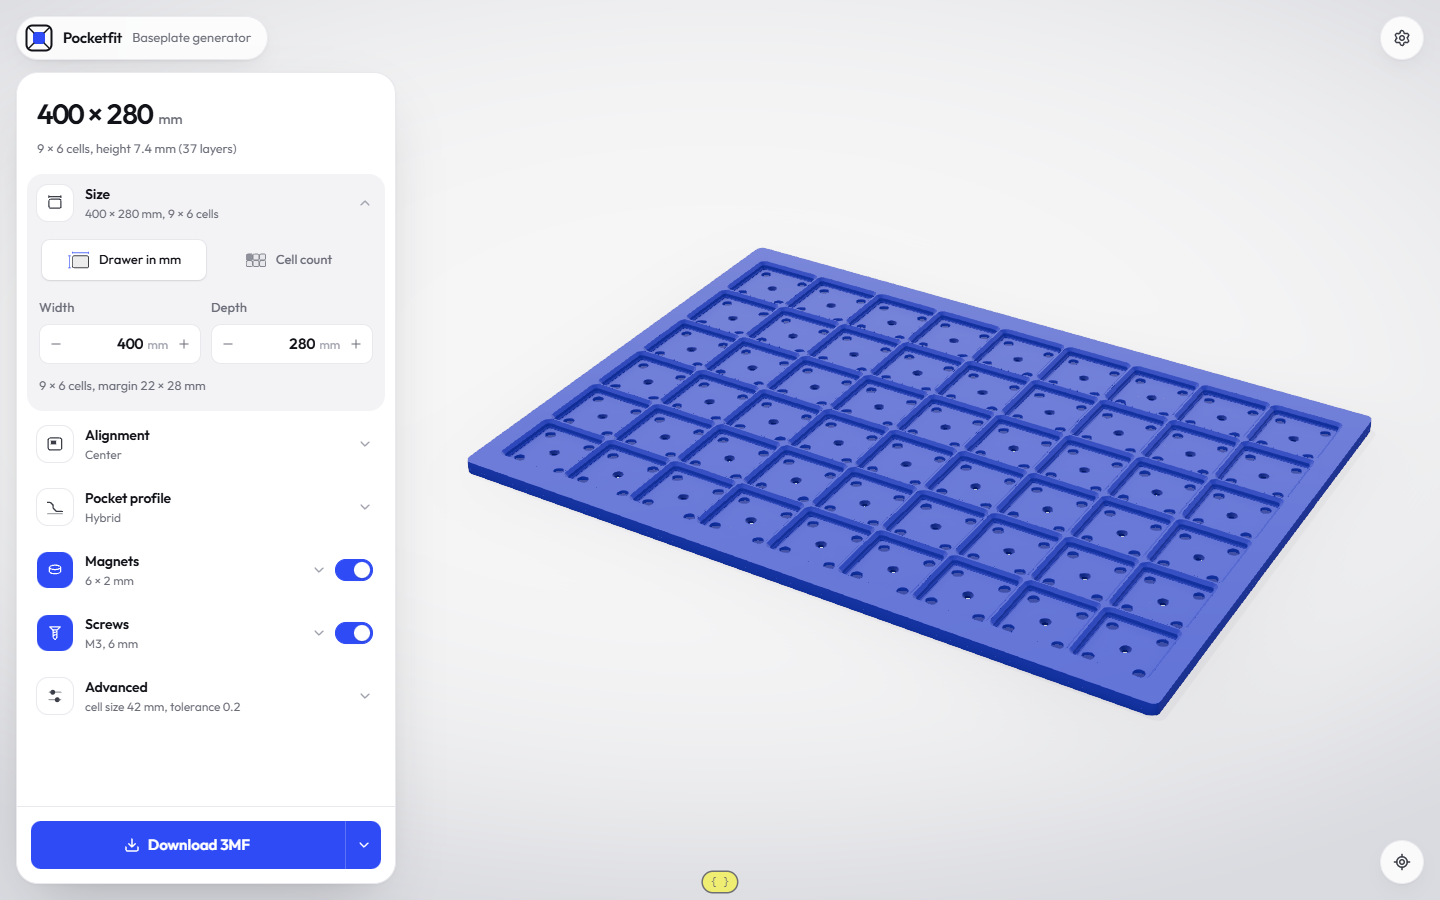
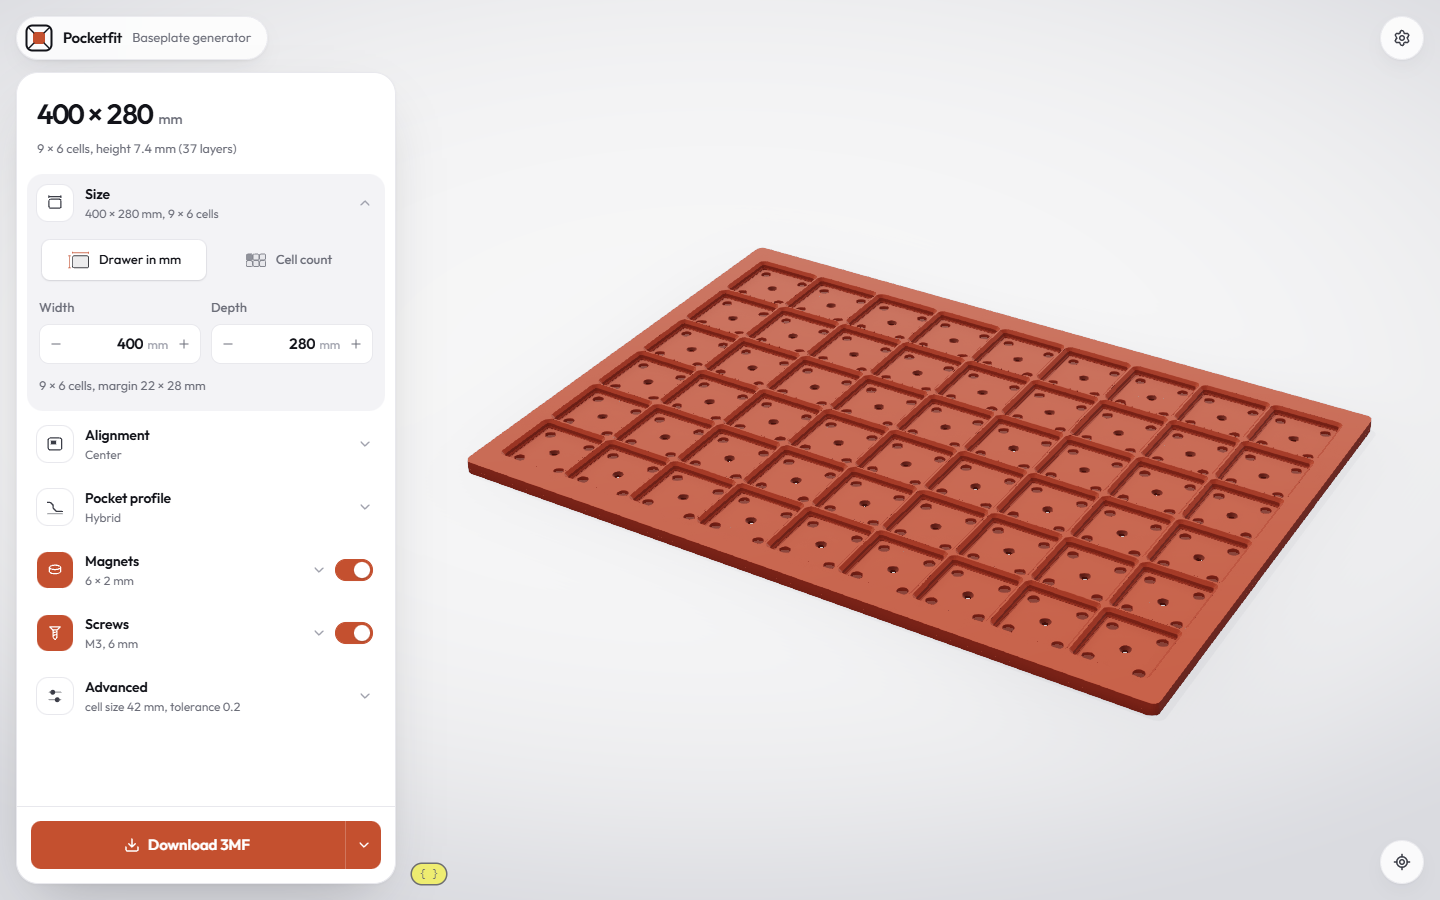
prototype(ui v3): terracotta accent, configurable from a single source
- BRAND_ACCENT in lib/accents.ts drives every --accent* token and the preview
  plastic color; the tokens are no longer duplicated in globals.css.
- ?accent=<key> still overrides it for testing; the comparison pill is removed.
- v3 screenshots retaken in terracotta; README and handoff updated.

diff --git a/prototypes/ui-directions/lib/accents.ts b/prototypes/ui-directions/lib/accents.ts
@@ -1,6 +1,8 @@
-// PROTOTYPE JETABLE — candidats pour l'accent unique de la direction Studio (l'outremer a été rejeté).
-// Chaque accent fixe les jetons CSS de l'interface et la couleur du plastique de l'aperçu 3D
+// PROTOTYPE JETABLE — accent unique de la direction Studio : SEULE source de sa couleur.
+// Pour changer l'accent du site : modifier BRAND_ACCENT (ou ajouter une entrée à ACCENTS).
+// Chaque accent fixe les jetons CSS de l'interface (--accent*) et la couleur du plastique de l'aperçu 3D
 // (par défaut, la baseplate a la couleur de la marque). `ink` = texte posé sur l'accent (contraste ≥ 4,5:1).
+// Test sans toucher au code : ?accent=<clé> dans l'URL.
 import type { CSSProperties } from "react";
 
 export type Accent = {
@@ -26,6 +28,10 @@ export const ACCENTS: Accent[] = [
   { key: "graphite", fr: "Graphite", en: "Graphite", hex: "#22242A", strong: "#22242A", ink: "#FFFFFF", tint: "#EDEEF1", plastic: "#F0F0EC" },
 ];
 
+/** Accent de la marque, choisi le 29/09/2026 (l'outremer a été rejeté). */
+export const BRAND_ACCENT = "terracotta";
+export const DEFAULT_ACCENT = Math.max(0, ACCENTS.findIndex((a) => a.key === BRAND_ACCENT));
+
 export function accentVars(a: Accent): CSSProperties {
   return {
     "--accent": a.hex,
@@ -34,4 +40,10 @@ export function accentVars(a: Accent): CSSProperties {
     "--accent-tint": a.tint,
     "--accent-ring": `color-mix(in srgb, ${a.hex} 28%, transparent)`,
   } as CSSProperties;
+}
+
+/** Règle CSS qui pose les jetons d'accent sur la racine de la direction et sur les popups portés hors de l'arbre. */
+export function accentCss(a: Accent) {
+  const vars = Object.entries(accentVars(a)).map(([k, v]) => `${k}: ${v};`).join(" ");
+  return `.dir-b, .kit-popup { ${vars} }`;
 }

diff --git a/prototypes/ui-directions/app/page.tsx b/prototypes/ui-directions/app/page.tsx
@@ -5,8 +5,7 @@ import { Suspense, useEffect } from "react";
 import { useSearchParams } from "next/navigation";
 import { useSettings } from "@/lib/settings";
 import { DebugPanel } from "@/components/DebugPanel";
-import { AccentSwitcher } from "@/components/AccentSwitcher";
-import { ACCENTS } from "@/lib/accents";
+import { ACCENTS, accentCss } from "@/lib/accents";
 import Studio from "@/variants/VariantB";
 
 function Screen() {
@@ -15,7 +14,7 @@ function Screen() {
   const { set } = ctx;
   // Raccourcis de capture : ?accent=terracotta&magnets&screws&release&lang=en
   useEffect(() => {
-    const accent = ACCENTS.findIndex((a) => a.key === params.get("accent"));
+    const accent = ACCENTS.findIndex((a) => a.key === params.get("accent")); // test d'un autre accent
     set({
       ...(accent >= 0 ? { accent } : {}),
       ...(params.has("magnets") ? { magnets: true } : {}),
@@ -28,7 +27,7 @@ function Screen() {
     <>
       <Studio {...ctx} />
       <DebugPanel s={ctx.s} layout={ctx.layout} variant="Studio" />
-      <AccentSwitcher value={ctx.s.accent} onChange={(accent) => set({ accent, filament: 0 })} />
+      <style>{accentCss(ACCENTS[ctx.s.accent])}</style>
     </>
   );
 }

diff --git a/prototypes/ui-directions/lib/settings.ts b/prototypes/ui-directions/lib/settings.ts
@@ -2,6 +2,7 @@
 // PROTOTYPE JETABLE — état des réglages partagé par les 3 directions visuelles.
 // Pas de vraie géométrie : seulement assez de logique pour que l'aperçu et les libellés vivent.
 import { useCallback, useMemo, useState } from "react";
+import { DEFAULT_ACCENT } from "./accents";
 
 export type Align = "tl" | "t" | "tr" | "l" | "c" | "r" | "bl" | "b" | "br";
 export const ALIGNS: Align[] = ["tl", "t", "tr", "l", "c", "r", "bl", "b", "br"];
@@ -33,7 +34,7 @@ export type Settings = {
   lang: "fr" | "en";
   /** Couleur de filament de l'aperçu (index dans la palette de la variante). */
   filament: number;
-  /** Accent de l'interface (index dans lib/accents.ts) : choix de prototype, pas un réglage produit. */
+  /** Accent de l'interface (index dans lib/accents.ts), surchargeable par ?accent= : pas un réglage produit. */
   accent: number;
 };
 
@@ -63,7 +64,7 @@ export const DEFAULTS: Settings = {
   unit: "mm",
   lang: "fr",
   filament: 0,
-  accent: 0,
+  accent: DEFAULT_ACCENT,
 };
 
 export type Layout = {

diff --git a/prototypes/ui-directions/app/globals.css b/prototypes/ui-directions/app/globals.css
@@ -1,9 +1,10 @@
 @import "tailwindcss";
 
-/* PROTOTYPE JETABLE v2 — une palette sobre par direction : neutres + UN accent.
-   Les briques de components/kit.tsx ne lisent que ces jetons. */
+/* PROTOTYPE JETABLE v3 — palette sobre : neutres + UN accent.
+   Les briques de components/kit.tsx ne lisent que ces jetons.
+   Les jetons --accent* ne sont PAS ici : ils viennent de lib/accents.ts (source unique). */
 
-/* B « Studio » : blanc cassé lumineux, bleu outremer, formes douces, panneaux flottants. */
+/* « Studio » : blanc cassé lumineux, formes douces, panneaux flottants. */
 .dir-b {
   --font: var(--font-outfit), system-ui, sans-serif;
   --bg: #f1f1f3;
@@ -16,11 +17,6 @@
   --ink-soft: #3b3d47;
   --muted: #6b6d78;
   --faint: #a0a2ad;
-  --accent: #2f4bf5;
-  --accent-strong: #2f4bf5;
-  --accent-ink: #ffffff;
-  --accent-tint: #eef1ff;
-  --accent-ring: rgb(47 75 245 / 0.25);
   --r-ctl: 10px;
   --r-card: 14px;
   --r-switch: 999px;

diff --git a/prototypes/ui-directions/README.md b/prototypes/ui-directions/README.md
@@ -17,7 +17,8 @@ Raccourcis d'URL pour les captures : `?accent=<clé>`, `&magnets`, `&screws`, `&
 ## Décisions de design (retours du 29/09/2026)
 
 - **Direction Studio** : aperçu 3D plein écran sur fond studio, panneaux flottants aux formes douces, un seul accent, typo Outfit.
-- **Accent : l'outremer est rejeté** (« pas beau »). Six candidats à comparer dans `lib/accents.ts` : orange signal, terre cuite, sapin, pétrole, moutarde, graphite (monochrome, plastique blanc). Texte sur l'accent ≥ 4,5:1 pour chacun. Pilule jaune en bas (‹ › ou ← →) ou `?accent=terracotta` dans l'URL. La baseplate prend la couleur de l'accent par défaut.
+- **Accent : terre cuite `#C4502F`** (texte blanc, 4,6:1), choisi parmi six candidats après le rejet de l'outremer. La baseplate prend la couleur de l'accent par défaut.
+- **Accent paramétrable à un seul endroit** : `BRAND_ACCENT` dans `lib/accents.ts`. Les jetons `--accent*` ne sont plus dans `globals.css` ; ils sont générés depuis ce fichier, et la couleur du plastique suit. Pour essayer un autre accent sans toucher au code : `?accent=orange|terracotta|fir|petrol|mustard|graphite`.
 - **Panneau de réglages à gauche** (et non plus à droite). L'aperçu se recadre dans la zone restée visible (`insetLeft` dans `Preview3D`).
 - **Familles en accordéon exclusif** : en ouvrir une referme les autres. Activer les aimants ou les vis ouvre leur section.
 - **Menu Préférences en haut à droite** (icône engrenage) : langue (liste déroulante), unités, imprimante (buse, hauteur de couche), couleur de l'aperçu, puis Partager, Réinitialiser, Offrir un café. Rien de tout cela n'est dans la mise en page principale : la couleur de l'aperçu n'est pas un réglage de la baseplate.
@@ -31,9 +32,7 @@ Raccourcis d'URL pour les captures : `?accent=<clé>`, `&magnets`, `&screws`, `&
 | Aimants activés (section ouverte, les autres fermées) | `desktop-aimants.png` | `mobile-reglages.png` (panneau ouvert) |
 | Menu Préférences | `desktop-preferences.png`, `desktop-langue.png` (liste ouverte) | `mobile-preferences.png` |
 | EN, aimants + vis | `desktop-en.png` | |
-| Accents candidats (aimants activés) | `accent-orange.png`, `accent-terracotta.png`, `accent-fir.png`, `accent-petrol.png`, `accent-mustard.png`, `accent-graphite.png` | |
-
-Les captures `desktop*.png` et `mobile*.png` datent d'avant le rejet de l'outremer.
+| Accents comparés avant le choix (aimants activés) | `accent-orange.png`, `accent-terracotta.png`, `accent-fir.png`, `accent-petrol.png`, `accent-mustard.png`, `accent-graphite.png` | |
 
 Note : les captures sont faites en Chromium headless (rendu WebGL logiciel). Ce rendu est si lent que les animations d'ouverture des menus n'avancent pas ; le script de capture les neutralise. Dans un vrai navigateur, elles se jouent normalement.
 

diff --git a/docs/handoff.md b/docs/handoff.md
@@ -38,14 +38,14 @@ Retour de l'utilisateur sur le design : palette sobre avec un seul accent. extra
 ## Décisions de design (29/09/2026, prototype v3)
 
 - Direction **Studio** retenue (aperçu plein écran sur fond studio, panneaux flottants, typo Outfit). Calibre abandonnée.
-- Accent **outremer rejeté** ; six candidats à comparer dans le prototype (`lib/accents.ts`).
+- Accent **terre cuite** `#C4502F` (l'outremer a été rejeté). Il doit rester facile à changer : une seule source (`BRAND_ACCENT` dans `lib/accents.ts` du prototype), à reprendre telle quelle dans `packages/ui`.
 - Panneau de réglages **à gauche**.
 - Familles de réglages en **accordéon exclusif** : en ouvrir une referme les autres.
 - Menu **Préférences** (engrenage) en haut à droite : langue en liste déroulante, unités, imprimante (buse, hauteur de couche), couleur de l'aperçu, puis Partager, Réinitialiser, Offrir un café. La couleur de l'aperçu n'a pas sa place dans la mise en page principale.
 
 ## En attente
 
-1. Choisir l'accent parmi les candidats du prototype v3 (l'outremer est rejeté) ; confirmer la typo Outfit.
+1. Confirmer la typo Outfit.
 2. Reporté après le développement du moteur : surépaisseur de 2,8 mm sous le profil avec aimants, blocs d'aimant de 10,5 mm dans les coins.
 3. Nom du site : « Pocketfit » est un nom provisoire, rien n'est décidé (éviter « Gridfinity » dans le nom, le statut de marque n'a pas été vérifié).
 
